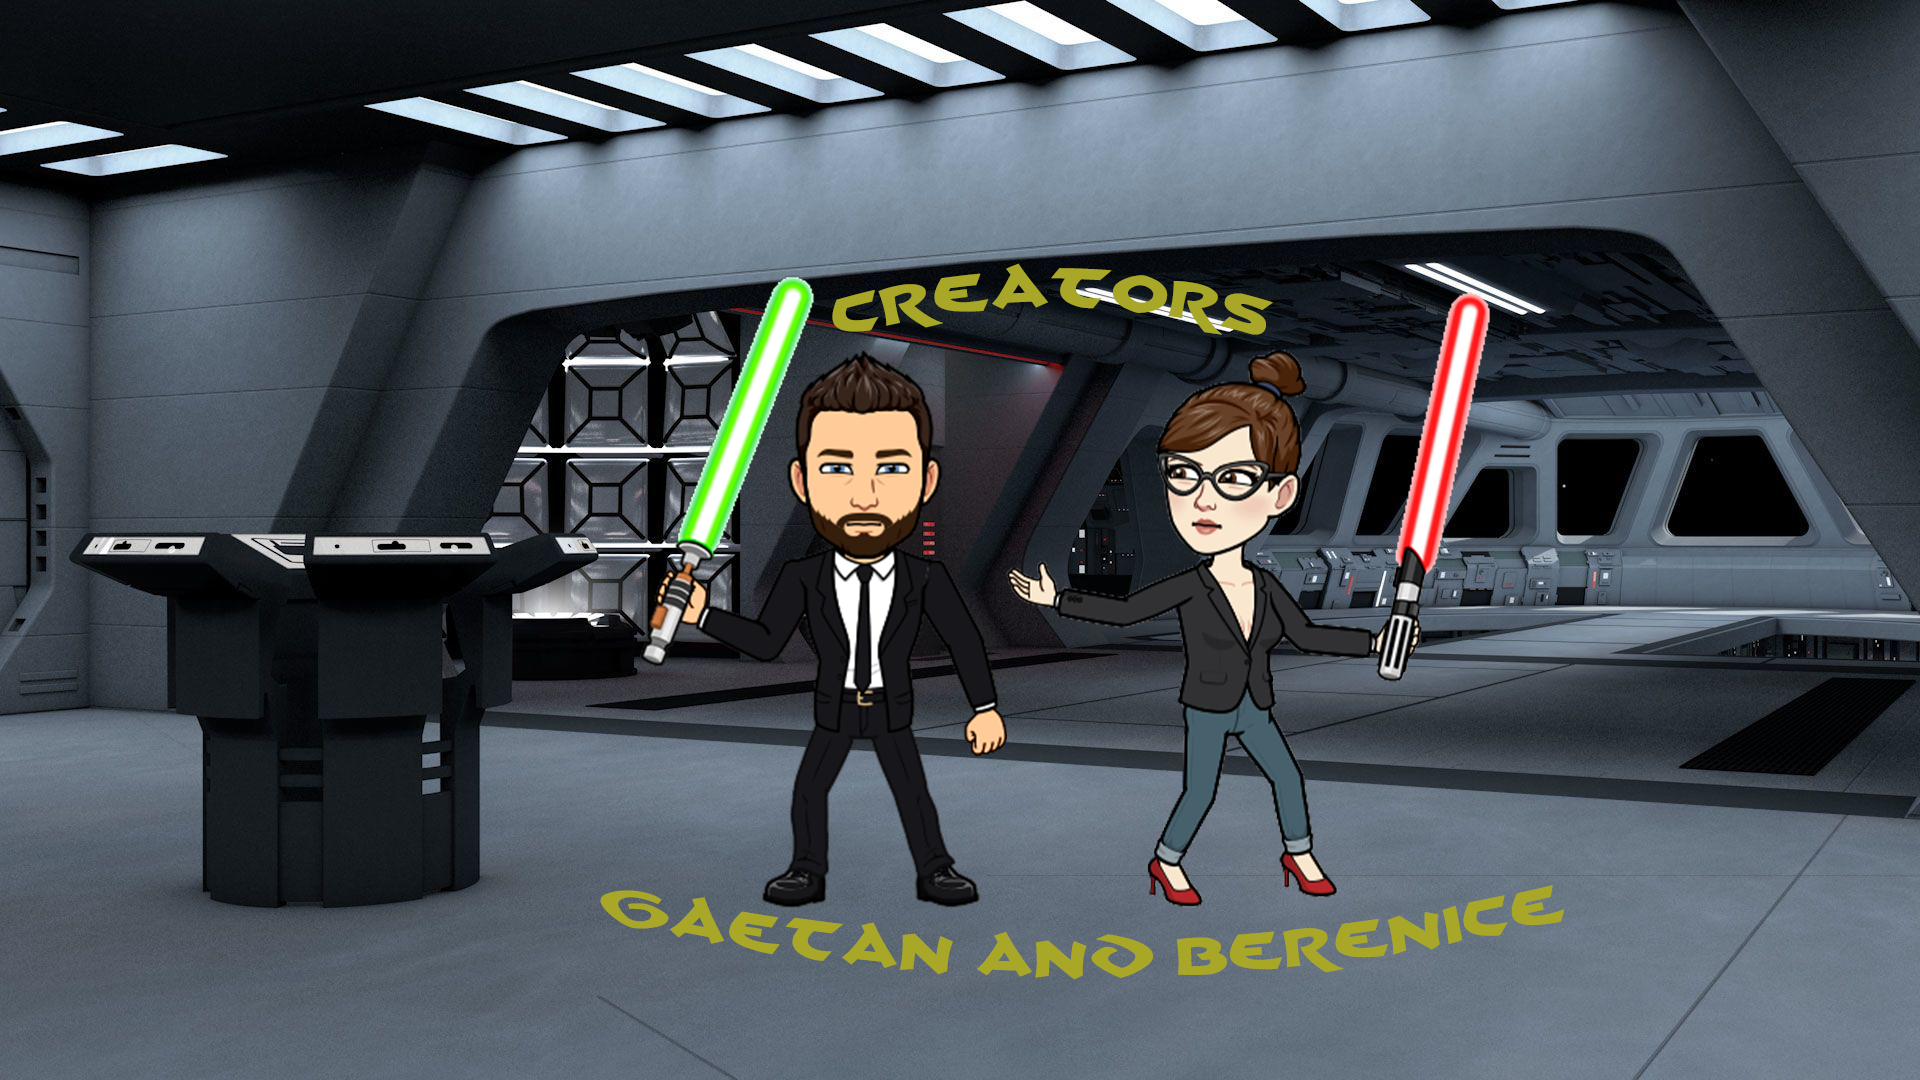
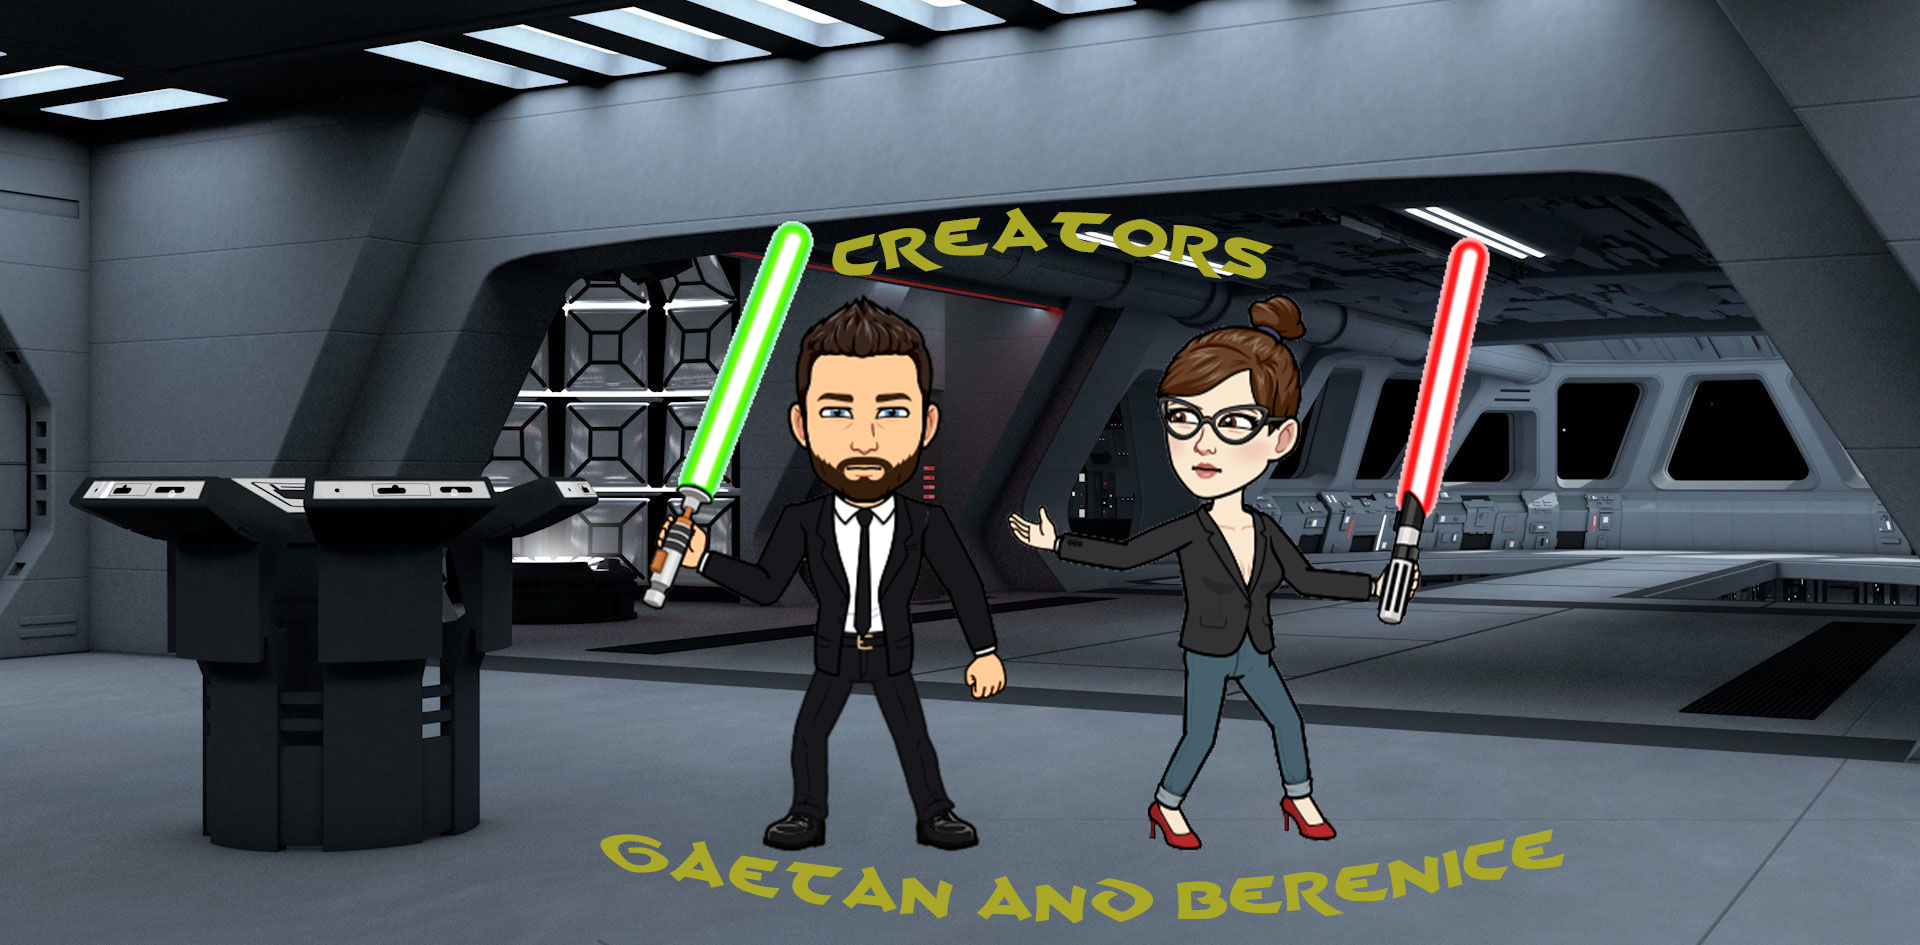
Small Fixes

diff --git a/resource/js/index.js b/resource/js/index.js
@@ -185,7 +185,7 @@ credits.addEventListener('click', function () {
     jsdiv = document.querySelector('#infoJs' + i);
     jsdiv.innerHTML = "";
   }
-  document.body.style.backgroundImage = "url('/resource/img/credits/test.png')";
+  document.body.style.backgroundImage = "url('/resource/img/credits/fond.png')";
   document.body.style.backgroundSize = "cover";
   var audio = new Audio('/resource/sound/swIntro.mp3');
   audio.play();
